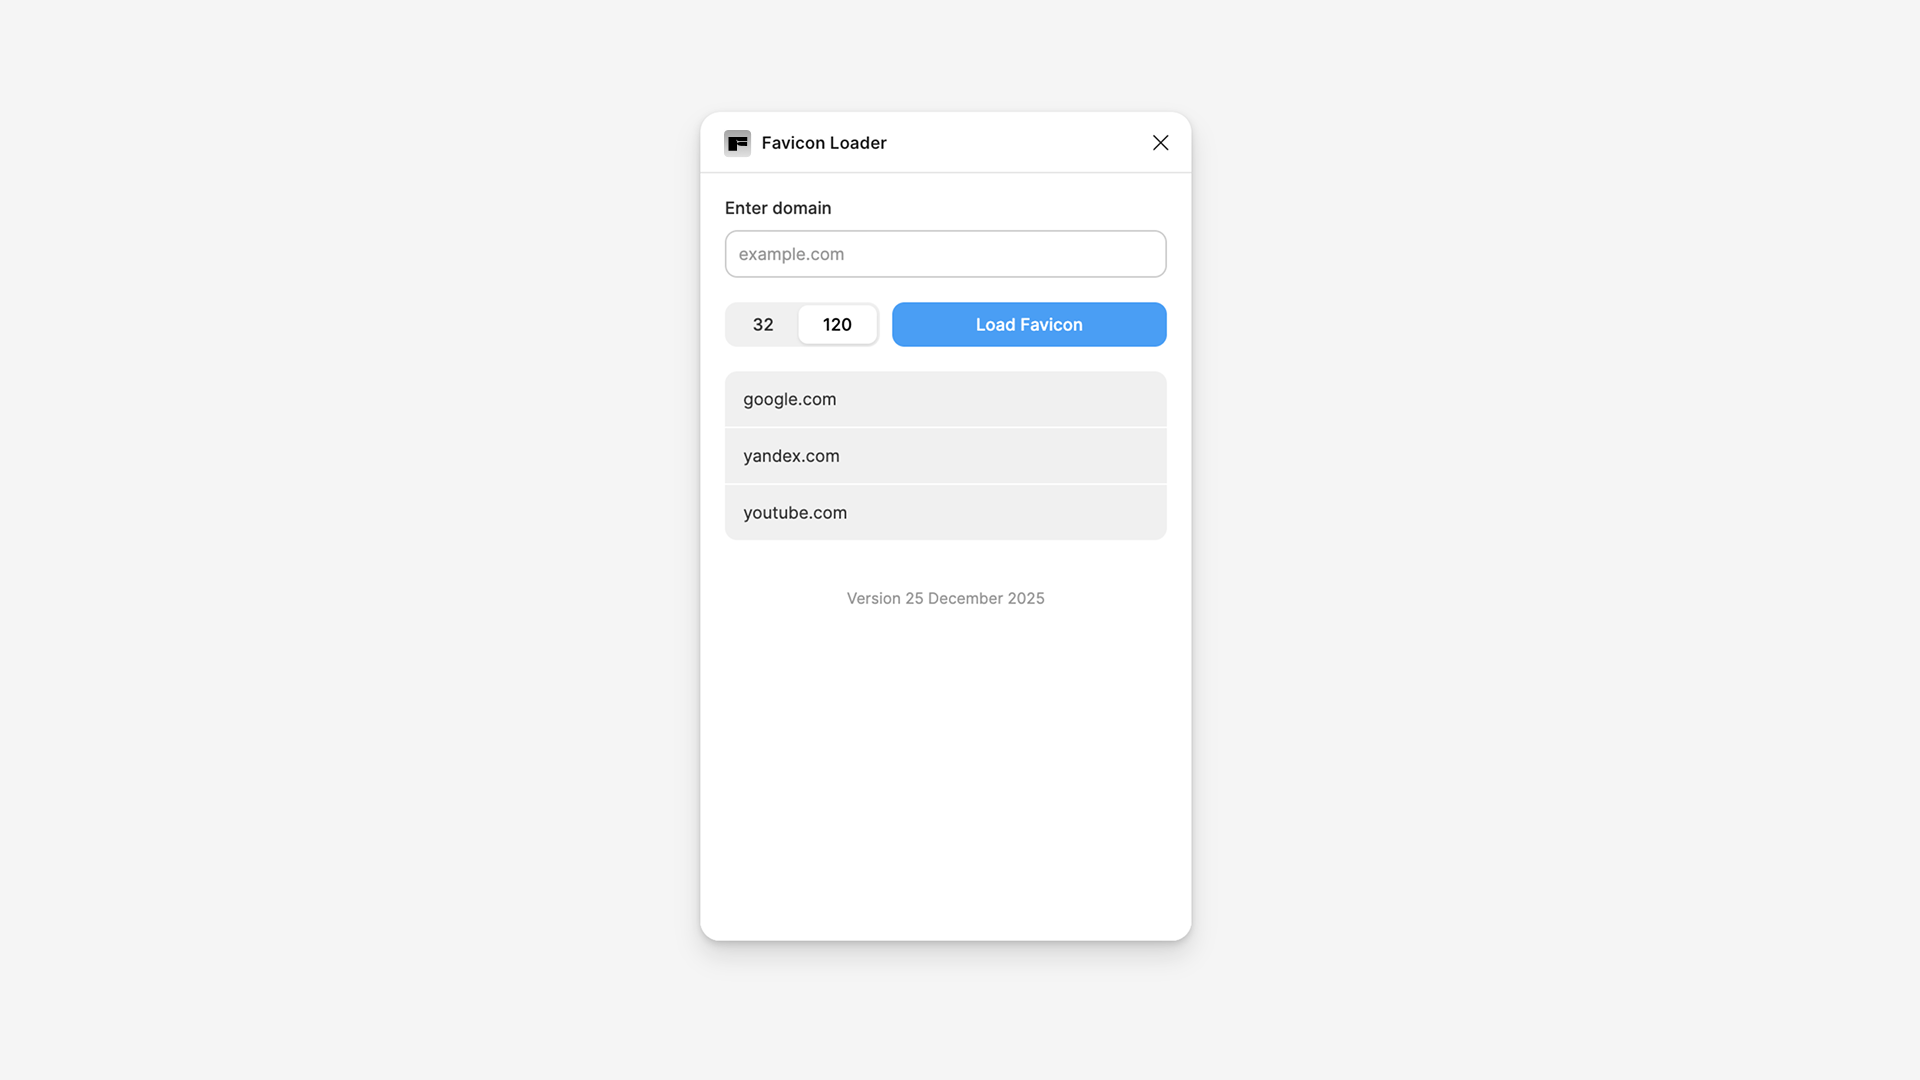
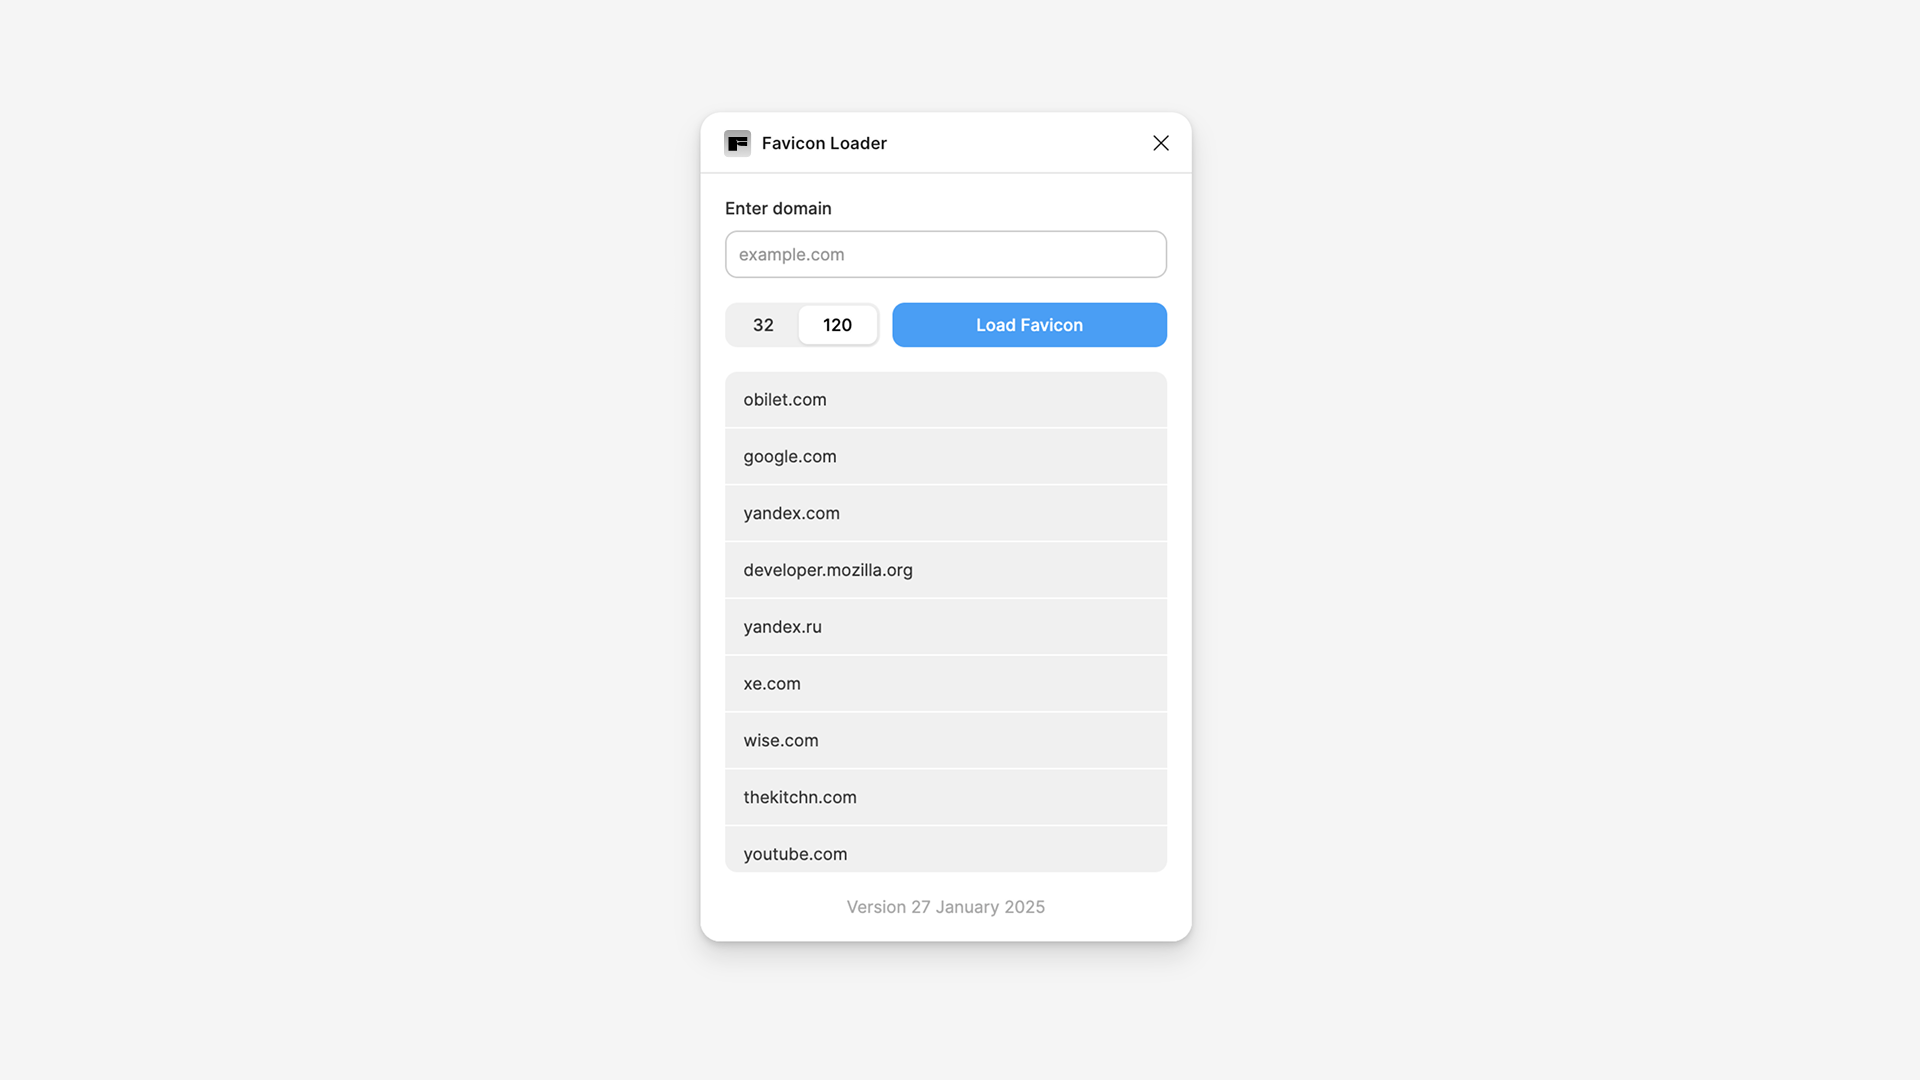
Added auto-focus on domain input and organized documentation
- Auto-focus domain input field when plugin opens for faster workflow
- Created CHANGELOG.md with user-facing changes history
- Added CLAUDE.md with AI collaboration notes
- Added IDEAS.md for future improvements tracking
- Moved documentation files to mds/ folder
- Updated plugin slide image

diff --git a/ui.html b/ui.html
@@ -131,7 +131,7 @@ input[type="text"]::placeholder {
 }
 
 .history-list {
-  max-height: 324px;
+  max-height: 326px;
   overflow-y: auto;
   border-radius: 8px;
   background: #f0f0f0;
@@ -359,7 +359,7 @@ input[type="text"]::placeholder {
         } else if (key.startsWith("on") && typeof value === "function") {
           const eventName = key.substring(2).toLowerCase();
           element.addEventListener(eventName, value);
-        } else if (key === "disabled" || key === "checked" || key === "selected") {
+        } else if (key === "disabled" || key === "checked" || key === "selected" || key === "autofocus") {
           if (value) {
             element.setAttribute(key, "");
           } else {
@@ -400,6 +400,7 @@ input[type="text"]::placeholder {
         placeholder: this.props.placeholder || "example.com",
         value: this.props.value || "",
         autocomplete: "off",
+        autofocus: true,
         onInput: (e) => {
           const target = e.target;
           if (this.props.onInput) {
@@ -431,6 +432,13 @@ input[type="text"]::placeholder {
     }
     clear() {
       this.setValue("");
+    }
+    focus() {
+      var _a;
+      (_a = this.inputElement) == null ? void 0 : _a.focus();
+    }
+    onMount() {
+      setTimeout(() => this.focus(), 50);
     }
   };
 

diff --git a/src/ui/components/DomainInput.ts b/src/ui/components/DomainInput.ts
@@ -21,6 +21,7 @@ export class DomainInput extends Component<DomainInputProps> {
       placeholder: this.props.placeholder || 'example.com',
       value: this.props.value || '',
       autocomplete: 'off',
+      autofocus: true,
       onInput: (e: Event) => {
         const target = e.target as HTMLInputElement;
         if (this.props.onInput) {
@@ -57,5 +58,15 @@ export class DomainInput extends Component<DomainInputProps> {
 
   public clear(): void {
     this.setValue('');
+  }
+
+  public focus(): void {
+    this.inputElement?.focus();
+  }
+
+  protected onMount(): void {
+    // Auto-focus the input when component mounts
+    // Use setTimeout to ensure DOM is fully ready (needed for Figma plugin iframe)
+    setTimeout(() => this.focus(), 50);
   }
 }

diff --git a/src/ui/components/Component.ts b/src/ui/components/Component.ts
@@ -115,7 +115,7 @@ export abstract class Component<P extends ComponentProps = ComponentProps> {
       } else if (key.startsWith('on') && typeof value === 'function') {
         const eventName = key.substring(2).toLowerCase();
         element.addEventListener(eventName, value);
-      } else if (key === 'disabled' || key === 'checked' || key === 'selected') {
+      } else if (key === 'disabled' || key === 'checked' || key === 'selected' || key === 'autofocus') {
         // Boolean attributes - set or remove based on value
         if (value) {
           element.setAttribute(key, '');

diff --git a/mds/CHANGELOG.md b/mds/CHANGELOG.md
@@ -1,0 +1,24 @@
+# Changelog
+
+All notable changes to Favicon Loader are documented in this file.
+
+---
+
+## 30 January 2026
+
+- Auto-focus domain input field when plugin opens for faster workflow
+- Fixed button state not updating correctly
+- Fixed version footer positioning to stay at bottom
+
+## 27 January 2026
+
+- Added search/filter history while typing domain
+- Redesigned plugin UI with modern styling
+- Added size selector toggle (32px / 120px favicon sizes)
+
+## 16 January 2026
+
+- Initial release of Figma Favicon Loader plugin
+- Load favicons from any domain into selected Figma elements
+- Domain history tracking with quick re-use
+- Delete individual domains from history

diff --git a/CLAUDE.md b/CLAUDE.md
@@ -1,0 +1,15 @@
+## Project
+- Developing a figma plugin that helps to do work faster and more reliable.
+
+## Auditory
+- **Designers**, they alwasys require simples and easiest yet effective sultions while working with plugins.
+
+## Technical Details
+
+- **No runtime dependencies** - Pure TypeScript implementation
+- **Type safety** - Full TypeScript coverage with interfaces
+- **Maintainable** - Clear separation of concerns, ~100 lines per component
+- **Extensible** - Easy to add new components following established patterns
+
+## Chores
+- Keep updated ARCHITECTURE.md file

diff --git a/mds/IDEAS.md b/mds/IDEAS.md
@@ -1,0 +1,10 @@
+# Thoughts and Ideas
+
+# Настройки плагина
+— Заменять все слои на фавиконку
+— Добавлять 5% чёрного поверх фавиконки
+— Размер фавиконки
+
+# Фиксы
+~~- Фокус сразу на поле ввода~~
+- Появление ошибок внизу поверх контента
